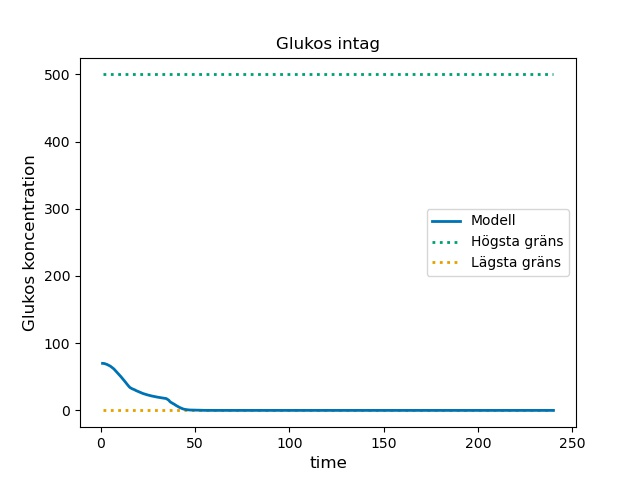
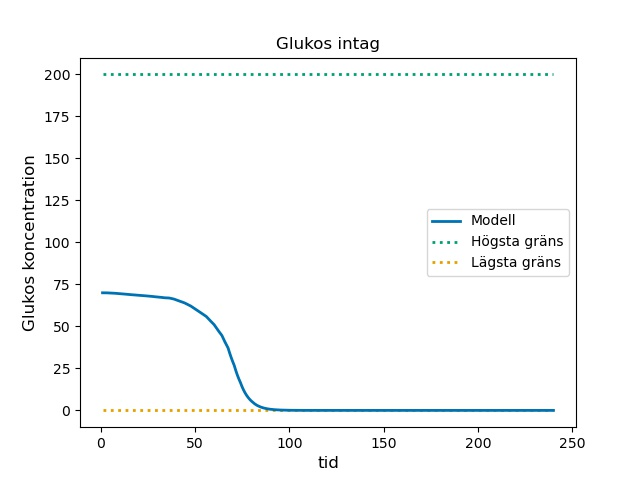
new model etc

diff --git a/optimering/week16_open_loop_optimering.py b/optimering/week16_open_loop_optimering.py
@@ -26,56 +26,65 @@ cI_vec = data_I['conc'].values
 
 
 def open_loop(t,x,b): 
-    k1, k2, k3, k4, k5 = b
+    k1, k2, k3, k4, k5, k6, k7, k8 = b
      
     # Says that the concentrations can't be lower than zero 
     x[x < 0] = 0.0 
 
     # Concentrations in the model as input 
-    G, I, C, M, H = x 
+    G, I, C, M, H, E, F = x 
 
-    L= 500 # Startvärde glukos i levern
+    #L= 5000 # Startvärde glukos i levern
 
     # Glucose plasma [1]
-    dG = k4*C*I + k1*H - k2*M
+    dG = k4*C + k1*H - k2*G*I
 
     # Insulin plasma [2]
-    dI = -k4*I*C + k3*G
+    dI = k3*G - k2*G*I
 
     # GLucose liver [3]
-    dC = -k4*C*I + L
+    dC = -k4*C + k6*E + k7*F
 
     # Glucose musle [4]
-    dM = k2*G - k5*M
+    dM = k2*G*I - k5*M
 
     # Glucose intake [5]
     dH = -k1*H
 
-    return [dG, dI, dC, dM, dH]
+    # Glucagon [6]
+    dE = k8 - k2*G*E 
 
- 
+    # Fettreserv [7]
+    dF = -k7*F
+
+    return [dG, dI, dC, dM, dH, dE, dF]
+
+
 
 def cost_function(b, yG_vec, yI_vec): 
 
     # Start concentration, timespan   
-    x0 = [60, 5, 34, 3, 70]  # G, I, C, M, H 
+    x0 = [30, 100, 34, 60, 70, 50, 400]  # G, I, C, M, H, E, F 
     time_span_G = [tG_vec[0], tG_vec[-1]] 
     time_span_I = [tI_vec[0], tI_vec[-1]] 
     
 
     # Step 1: Solve ODE-system at points tG_vec
-    sol_G = integrate.solve_ivp(open_loop, time_span_G, x0, method="LSODA", args=(b, ), t_eval=tG_vec) 
-    sol_I = integrate.solve_ivp(open_loop, time_span_I, x0, method="LSODA", args=(b, ), t_eval=tI_vec) 
+    sol_G = integrate.solve_ivp(open_loop, time_span_G, x0, method="Radau", args=(b, ), t_eval=tG_vec) 
+    sol_I = integrate.solve_ivp(open_loop, time_span_I, x0, method="Radau", args=(b, ), t_eval=tI_vec) 
 
     
     # step 2: Solve ODE-system qualitative
-    sol_qual = integrate.solve_ivp(open_loop, time_span_G, x0, method="LSODA", args=(b, ))
+    sol_qual = integrate.solve_ivp(open_loop, time_span_G, x0, method="Radau", args=(b, ))
 
     G_model = sol_qual.y[0]
     I_model = sol_qual.y[1]
     C_model = sol_qual.y[2]
     M_model = sol_qual.y[3]
     H_model = sol_qual.y[4]
+    E_model = sol_qual.y[5]
+    F_model = sol_qual.y[6]
+
 
 
     # Step 3: Extract G and I model concentrations at t-points tG_vec and tI_vec
@@ -85,11 +94,15 @@ def cost_function(b, yG_vec, yI_vec):
     # Step 4 : Build bounds for the concentrations and punnish the cost-func. if they go cross the bounds
     squared_sum = 0.0
 
-    range_G = [0, 50] # mM 
-    range_I = [0, 5000] #pM 
-    range_C = [0, 100] # mmol 
-    range_M = [0, 140] # mmol
+    range_G = [0, 500] # mM 
+    range_I = [0, 4000] #pM 
+    range_C = [0, 1000] # mmol 
+    range_M = [0, 1000] # mmol
     range_H = [0, 500] # mmol
+    range_E = [0, 500] # mmol
+    range_F = [0, 500] # mmol
+
+
 
      
 
@@ -113,6 +126,14 @@ def cost_function(b, yG_vec, yI_vec):
        squared_sum += 100
     if any(H_model) < np.min(range_H):
         squared_sum += 100
+    if any(E_model) > np.max(range_E):
+       squared_sum += 100
+    if any(E_model) < np.min(range_E):
+        squared_sum += 100
+    if any(F_model) > np.max(range_F):
+       squared_sum += 100
+    if any(F_model) < np.min(range_F):
+        squared_sum += 100
     
 
     # Step 5: Calculate cost-function  
@@ -123,36 +144,42 @@ def cost_function(b, yG_vec, yI_vec):
 ## Hypercube set up
 randSeed = 2 # random number of choice
 lhsmdu.setRandomSeed(randSeed) # Latin Hypercube Sampling with multi-dimensional uniformity
-start = np.array(lhsmdu.sample(5, 1)) # Latin Hypercube Sampling with multi-dimensional uniformity (parameters, samples)
+start = np.array(lhsmdu.sample(8, 1)) # Latin Hypercube Sampling with multi-dimensional uniformity (parameters, samples)
 
 para, samples = start.shape
 
 ## intervals for the parameters
-para_int = [0, 500]
+para_int = [0, 500, 100, 50]
 
 minimum = (np.inf, None)
 
 # Bounds for the model
-bound_low = np.array([0, 0, 0, 0, 0])
+bound_low = np.array([0, 0, 0, 0, 0, 0, 0, 0])
 bound_upp = np.repeat(np.inf, para)
 bounds = Bounds(bound_low, bound_upp)
 
 
 for n in range(samples):
-    k1 = start[0,n] * para_int[1]
+    k1 = start[0,n] * para_int[2]
     k2 = start[1,n] * para_int[1]
     k3 = start[2,n] * para_int[1]
     k4 = start[3,n] * para_int[1]
     k5 = start[4,n] * para_int[1]
+    k6 = start[5,n] * para_int[1]
+    k7 = start[6,n] * para_int[3]
+    k8 = start[7,n] * para_int[1]
+
+
+
     
-    res = minimize(cost_function, [k1, k2, k3, k4, k5], method='Powell', args = (cG_vec, cI_vec), bounds=bounds) #lägg in constraints här 
+    res = minimize(cost_function, [k1, k2, k3, k4, k5, k6, k7, k8], method='Powell', args = (cG_vec, cI_vec), bounds=bounds) #lägg in constraints här 
 
     if res.fun < minimum[0]:
         minimum = (res.fun, res.x)
 
 # Hämta modellen
 # Start concentration, timespan   
-x0 = [60, 5, 34, 3, 70]  # G, I, C, M, H 
+x0 = [30, 100, 34, 60, 70, 50, 400]  # G, I, C, M, H, E, F 
 time_span_G = [tG_vec[0], tG_vec[-1]] 
 time_span_I = [tI_vec[0], tI_vec[-1]] 
 
@@ -165,6 +192,10 @@ I_model = sol_qual.y[1]
 C_model = sol_qual.y[2]
 M_model = sol_qual.y[3]
 H_model = sol_qual.y[4]
+E_model = sol_qual.y[5]
+F_model = sol_qual.y[6]
+
+
 
 
 # Print some statistics  
@@ -185,20 +216,27 @@ yG2_coordinates = [50,50]   #mM (human)
 
 # Constrains insulin (I)
 yI1_coordinates = [0,0]   #pM (human)
-yI2_coordinates = [5000,5000] #pM (human)
+yI2_coordinates = [4000,4000] #pM (human)
  
  # Constrains glukos i lever (C) 
 yC1_coordinates = [0,0]  # mmol (human)
-yC2_coordinates = [100,100]  # mmol (human)
+yC2_coordinates = [1000,1000]  # mmol (human)
 
  # Constrains glukos i muskel (M) 
 yM1_coordinates = [0,0]    # mmol (human)
-yM2_coordinates = [140,140]  # mmol (human)
+yM2_coordinates = [1000,1000]  # mmol (human)
 
  # Constrains glucose intake (H)
 yH1_coordinates = [0,0]    
-yH2_coordinates = [500,500]  
+yH2_coordinates = [200,200]  
 
+ # Constrains glucagon plasma (E)
+yE1_coordinates = [0,0]    
+yE2_coordinates = [200,200]  
+
+ # Constrains Fettreserver (F)
+yF1_coordinates = [0,0]    
+yF2_coordinates = [500,500] 
 
 # plotta glukos
 lw = 2.0
@@ -208,8 +246,8 @@ line2, = plt.plot(xT_coordinates, yG2_coordinates, linestyle=":", linewidth=lw, 
 line3, = plt.plot(data_G['time'].values, data_G['conc'].values, label = 'Glukos', linestyle="-", linewidth=lw, color=cb_palette1[7])
 line4, = plt.plot(time_span, G_model, label = 'Glukos', linestyle="-", linewidth=lw, color=cb_palette1[5])
 plt.legend((line4, line3, line2, line1), ("Modell", "Data", "Högsta gräns","Lägsta gräns"))
-plt.xlabel("time", fontsize=12), plt.ylabel("Glukos koncentration", fontsize=12)
-plt.title("Glucose in plasma")
+plt.xlabel("tid (min)", fontsize=12), plt.ylabel("Glukos koncentration", fontsize=12)
+plt.title("Glukos i plasma")
 
 # Sparar figur i plot constrains, glukos
 # Write the result to file
@@ -229,8 +267,8 @@ line2, = plt.plot(xT_coordinates, yI2_coordinates, linestyle=":", linewidth=lw, 
 line3, = plt.plot(data_I['time'].values, data_I['conc'].values, label = 'Insulin', linestyle="-", linewidth=lw, color=cb_palette1[7])
 line4, = plt.plot(time_span, I_model, label = 'Insulin', linestyle="-", linewidth=lw, color=cb_palette1[5])
 plt.legend((line4, line3, line2, line1), ("Modell", "Data", "Högsta gräns","Lägsta gräns"))
-plt.xlabel("time", fontsize=12), plt.ylabel("Insulin koncentration", fontsize=12)
-plt.title("Insulin in plasma")
+plt.xlabel("tid", fontsize=12), plt.ylabel("Insulin koncentration", fontsize=12)
+plt.title("Insulin i plasma")
 
 # Sparar figur i plot constrains, insulin
 # Write the result to file
@@ -249,7 +287,7 @@ line1, = plt.plot(xT_coordinates, yC1_coordinates, linestyle=":", linewidth=lw, 
 line2, = plt.plot(xT_coordinates, yC2_coordinates, linestyle=":", linewidth=lw, color=cb_palette1[3])
 line3, = plt.plot(time_span, C_model, label = 'Glukos i levern', linestyle="-", linewidth=lw, color=cb_palette1[5]) # Lägga till modellen
 plt.legend((line3, line2, line1), ("Modell", "Högsta gräns", "Lägsta gräns"))
-plt.xlabel("time", fontsize=12), plt.ylabel("Glukos koncentration", fontsize=12)
+plt.xlabel("tid", fontsize=12), plt.ylabel("Glukos koncentration", fontsize=12)
 plt.title("Glukos i levern")
 
 # Sparar figur i plot constrains, glukos i levern
@@ -269,7 +307,7 @@ line1, = plt.plot(xT_coordinates, yM1_coordinates, linestyle=":", linewidth=lw, 
 line2, = plt.plot(xT_coordinates, yM2_coordinates, linestyle=":", linewidth=lw, color=cb_palette1[3])
 line3, = plt.plot(time_span, M_model, label = 'Glukos i muskeln', linestyle="-", linewidth=lw, color=cb_palette1[5]) # Lägga till modellen
 plt.legend((line3, line2, line1), ("Modell", "Högsta gräns", "Lägsta gräns"))
-plt.xlabel("time", fontsize=12), plt.ylabel("Glukos koncentration", fontsize=12)
+plt.xlabel("tid", fontsize=12), plt.ylabel("Glukos koncentration", fontsize=12)
 plt.title("Glukos i muskeln")
 
 
@@ -291,7 +329,7 @@ line1, = plt.plot(xT_coordinates, yH1_coordinates, linestyle=":", linewidth=lw, 
 line2, = plt.plot(xT_coordinates, yH2_coordinates, linestyle=":", linewidth=lw, color=cb_palette1[3])
 line3, = plt.plot(time_span, H_model, label = 'Glukos intag', linestyle="-", linewidth=lw, color=cb_palette1[5]) # Lägga till modellen
 plt.legend((line3, line2, line1), ("Modell", "Högsta gräns", "Lägsta gräns"))
-plt.xlabel("time", fontsize=12), plt.ylabel("Glukos koncentration", fontsize=12)
+plt.xlabel("tid", fontsize=12), plt.ylabel("Glukos koncentration", fontsize=12)
 plt.title("Glukos intag")
 
 
@@ -302,5 +340,47 @@ path_result_dir = "optimering/Bilder/plot_week16_open_loop_model"
 if not os.path.isdir(path_result_dir):
     os.mkdir(path_result_dir)  # Create a new directory if not existing
 path_fig = path_result_dir + "/plot_glukos_intag.jpg"
+print("path_fig = {}".format(path_fig))
+plt.savefig(path_fig)
+
+# plotta Glucagon
+lw = 2.0
+plot1 = plt.figure(6)
+line1, = plt.plot(xT_coordinates, yE1_coordinates, linestyle=":", linewidth=lw, color=cb_palette1[1])
+line2, = plt.plot(xT_coordinates, yE2_coordinates, linestyle=":", linewidth=lw, color=cb_palette1[3])
+line3, = plt.plot(time_span, E_model, label = 'Glucagon', linestyle="-", linewidth=lw, color=cb_palette1[5]) # Lägga till modellen
+plt.legend((line3, line2, line1), ("Modell", "Högsta gräns", "Lägsta gräns"))
+plt.xlabel("tid", fontsize=12), plt.ylabel("Glukagon koncentration", fontsize=12)
+plt.title("Glucagon")
+
+
+# Sparar figur i plot constrains, glukos i muskeln
+# Write the result to file
+path_result_dir = "optimering/Bilder/plot_week16_open_loop_model"
+# Check if directory exists
+if not os.path.isdir(path_result_dir):
+    os.mkdir(path_result_dir)  # Create a new directory if not existing
+path_fig = path_result_dir + "/plot_glukagon_i_plasma.jpg"
+print("path_fig = {}".format(path_fig))
+plt.savefig(path_fig)
+
+# plotta Fettreserver
+lw = 2.0
+plot1 = plt.figure(7)
+line1, = plt.plot(xT_coordinates, yF1_coordinates, linestyle=":", linewidth=lw, color=cb_palette1[1])
+line2, = plt.plot(xT_coordinates, yF2_coordinates, linestyle=":", linewidth=lw, color=cb_palette1[3])
+line3, = plt.plot(time_span, F_model, label = 'Fettreserver', linestyle="-", linewidth=lw, color=cb_palette1[5]) # Lägga till modellen
+plt.legend((line3, line2, line1), ("Modell", "Högsta gräns", "Lägsta gräns"))
+plt.xlabel("tid", fontsize=12), plt.ylabel("Glukos koncentration", fontsize=12)
+plt.title("Fettreserver")
+
+
+# Sparar figur i plot constrains, glukos i muskeln
+# Write the result to file
+path_result_dir = "optimering/Bilder/plot_week16_open_loop_model"
+# Check if directory exists
+if not os.path.isdir(path_result_dir):
+    os.mkdir(path_result_dir)  # Create a new directory if not existing
+path_fig = path_result_dir + "/plot_Fettreserver.jpg"
 print("path_fig = {}".format(path_fig))
 plt.savefig(path_fig)
